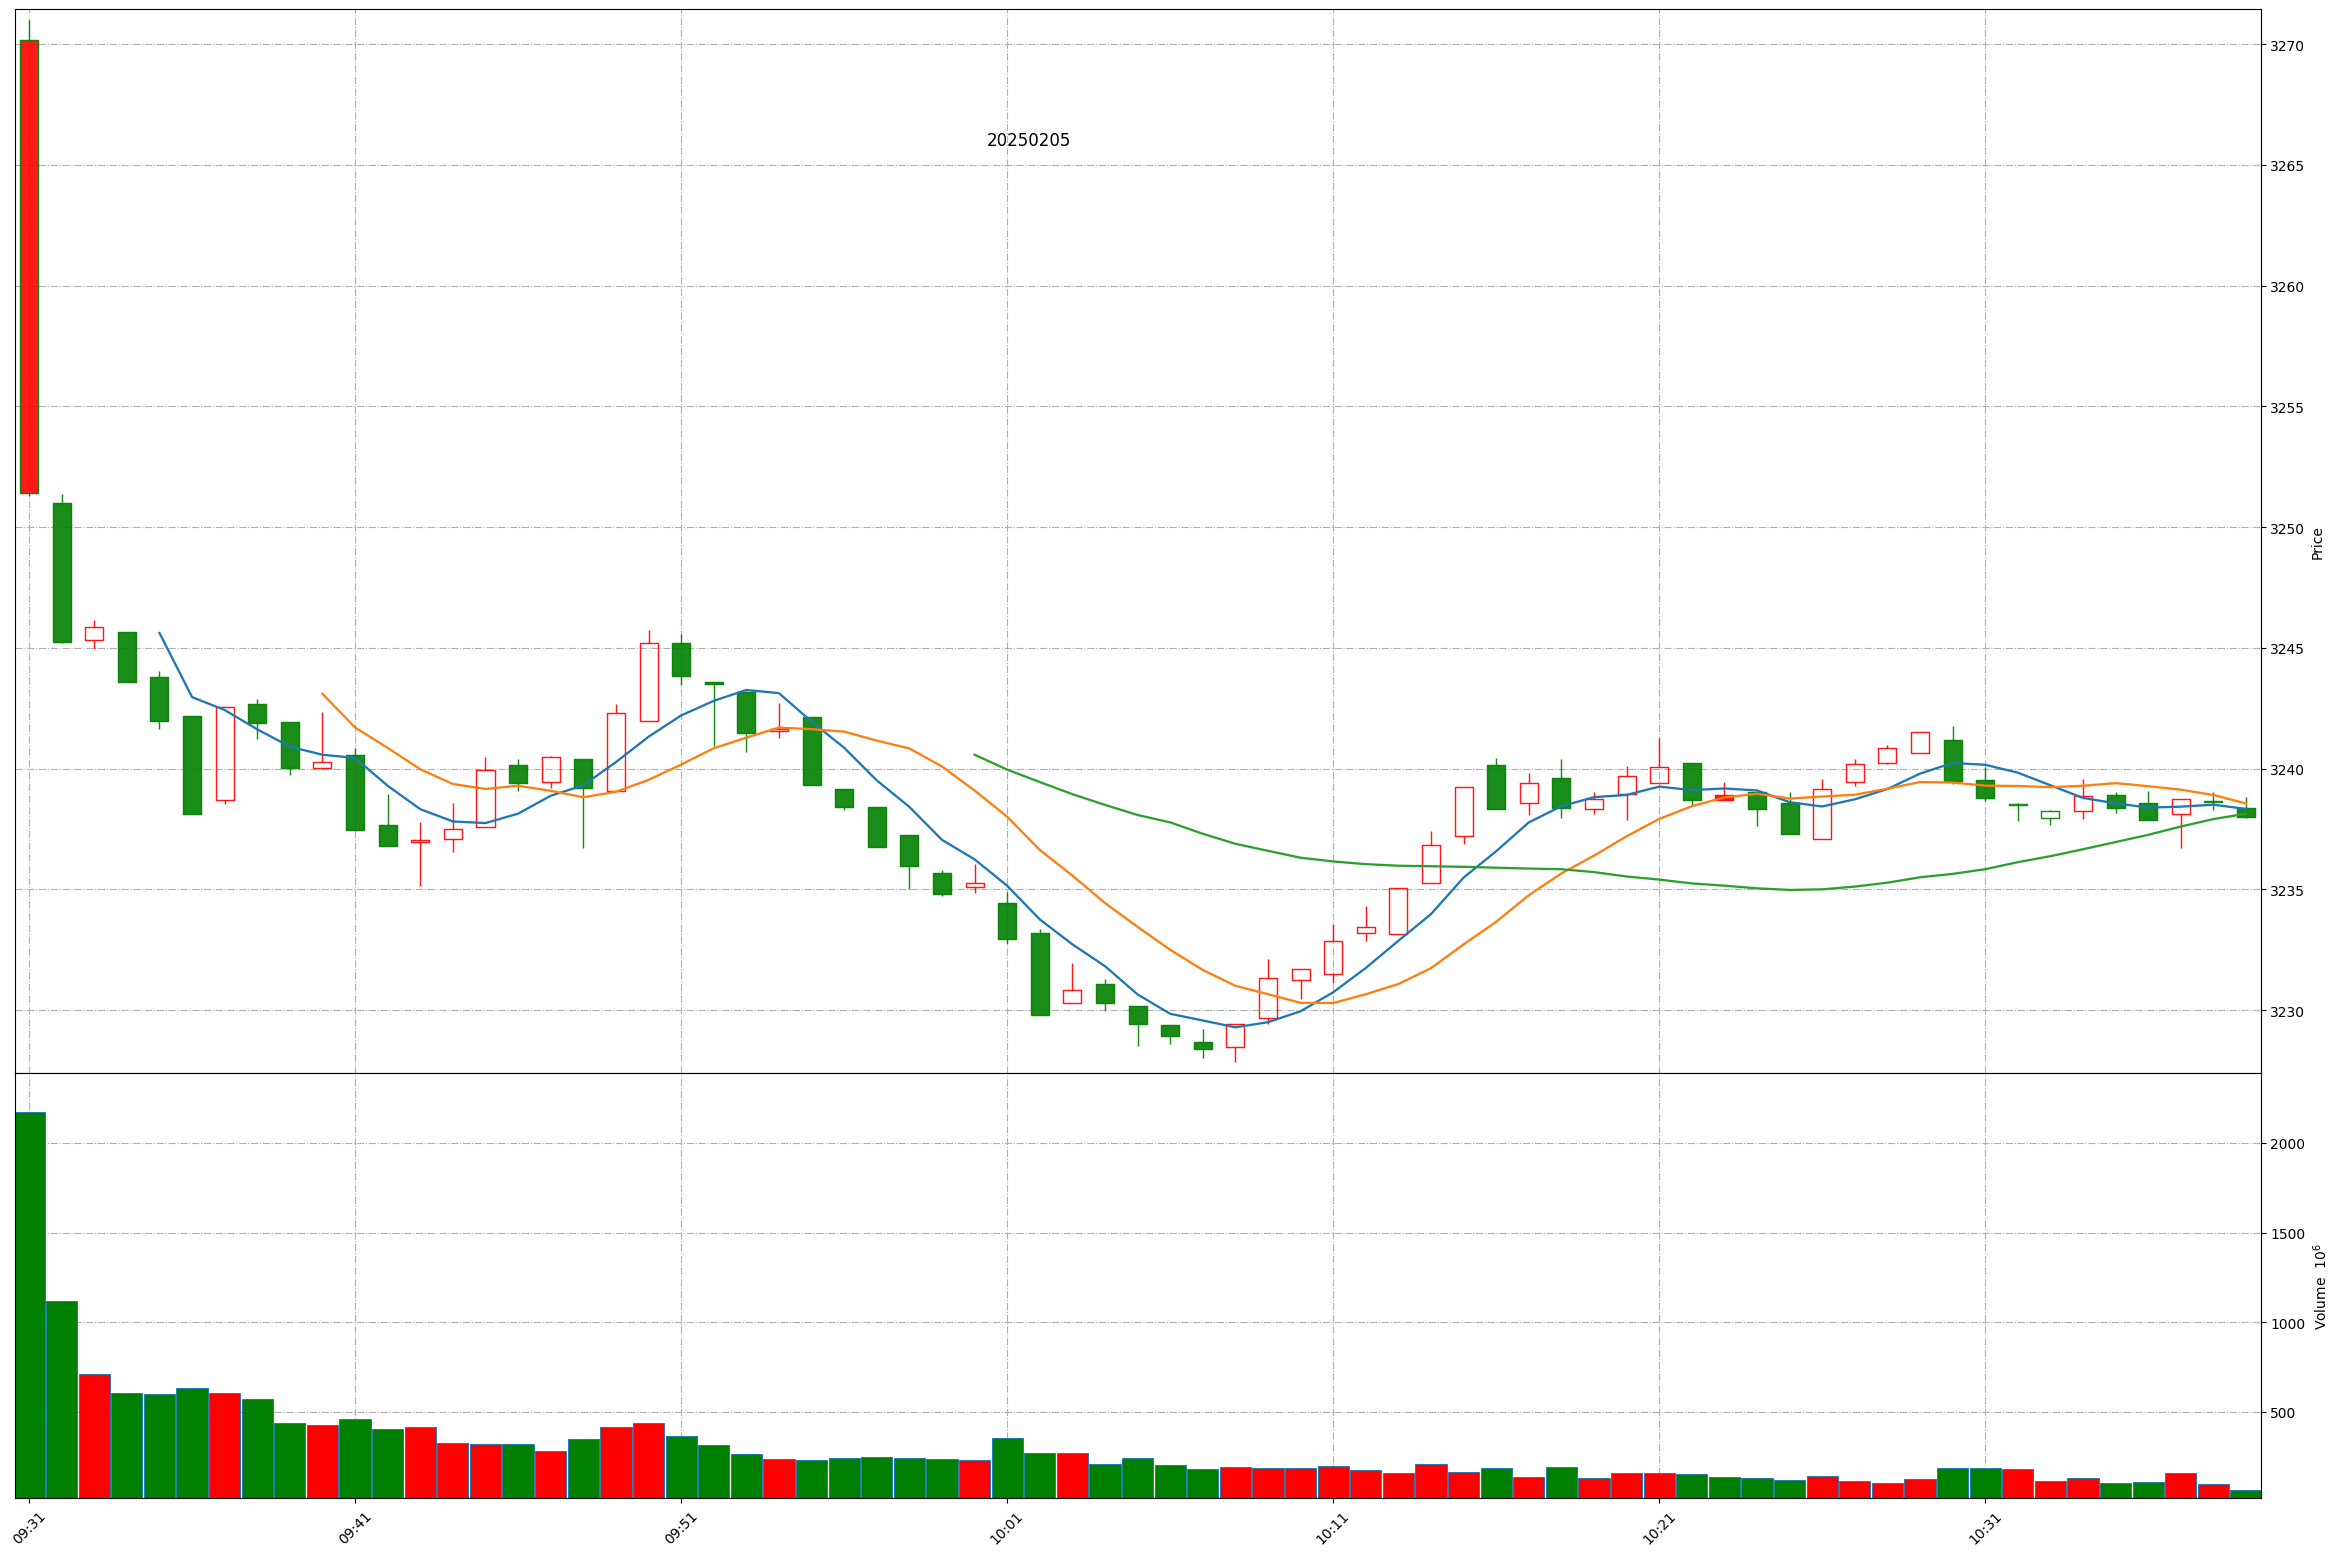
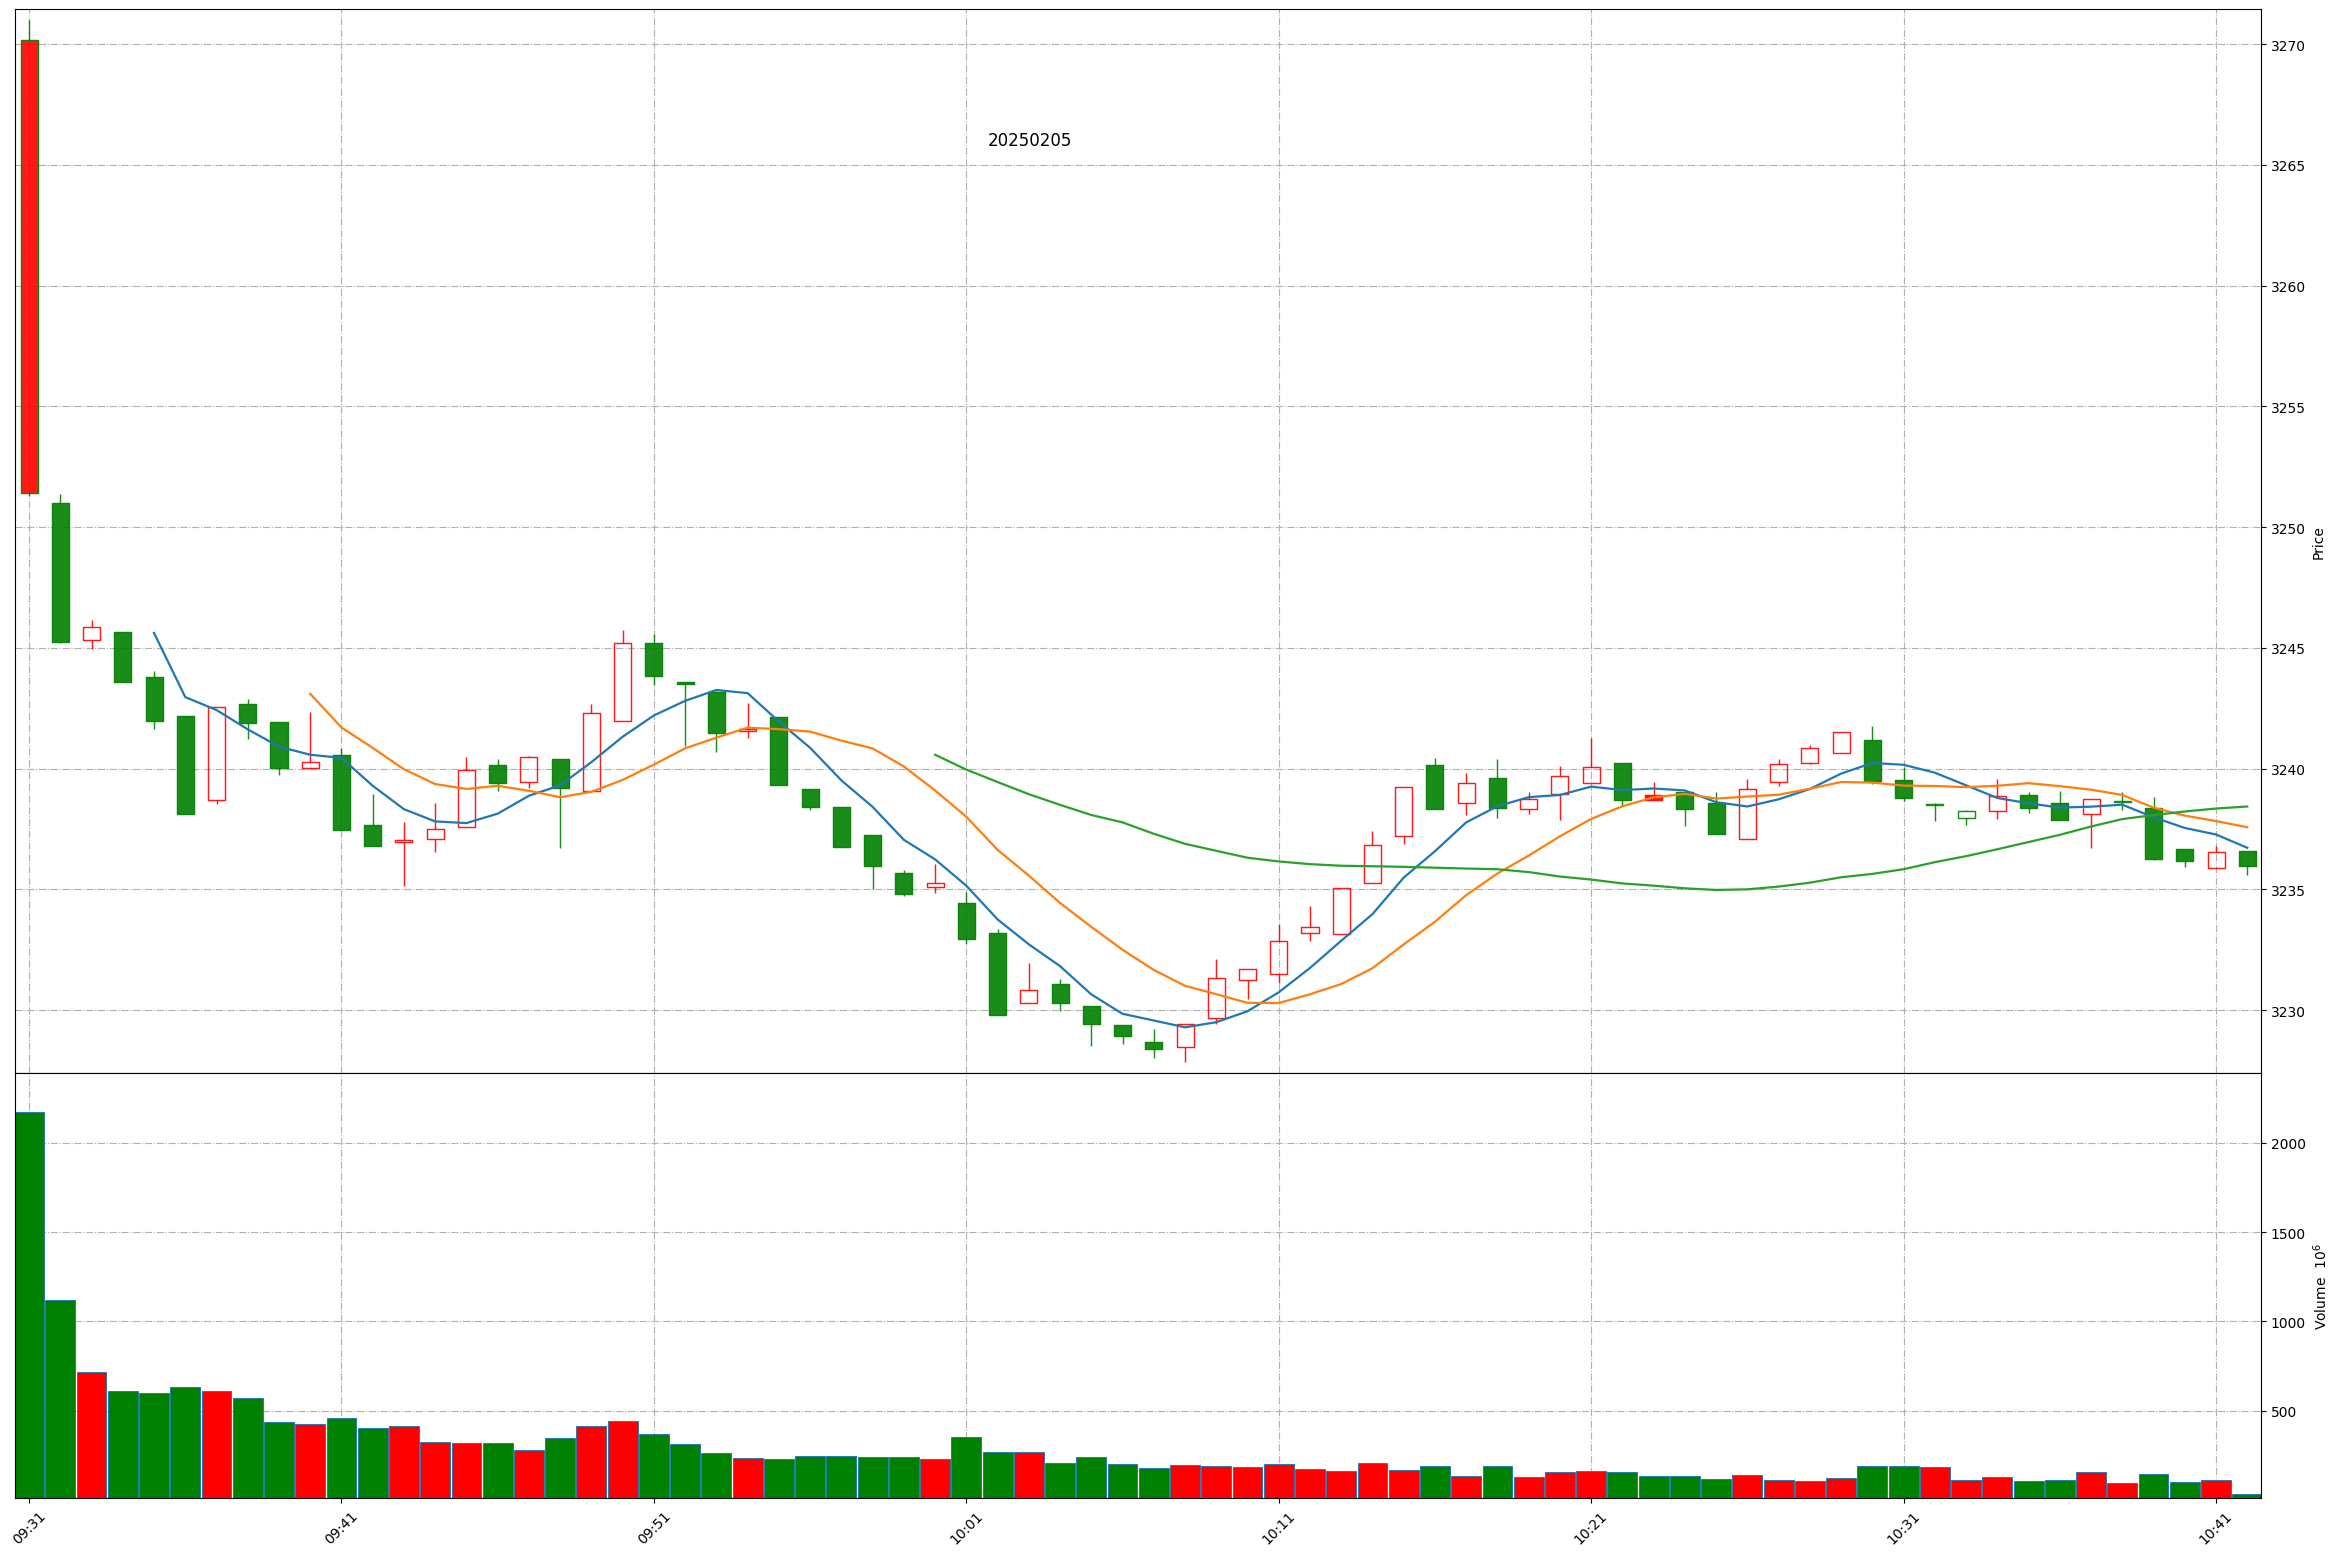
Github action update at 2025-02-05 10:41:34.

diff --git a/README.md b/README.md
@@ -1,11 +1,11 @@
 
 # Daily-A-share-market-quotes 每日 A 股指数（5min 更新）- 20250205
 
-### 上证指数 20250205 10:38
+### 上证指数 20250205 10:41
 ![](./fig/2025/2/20250205-sh000001.png)
 
-### 深证成指 20250205 10:38
+### 深证成指 20250205 10:41
 ![](./fig/2025/2/20250205-sz399001.png)
 
-### 北证50 20250205 10:38
+### 北证50 20250205 10:41
 ![](./fig/2025/2/20250205-bj899050.png)
